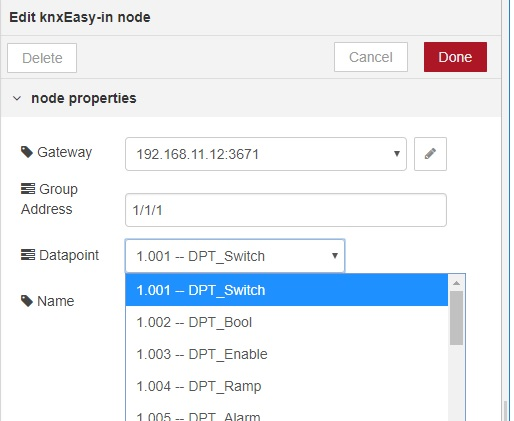
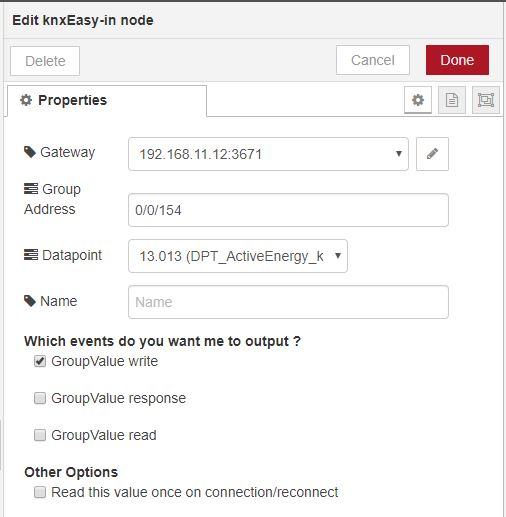
Implement issue #9 (filter events in knxEasy-in node)
Added checkboxes for subscribtion to Read/Response/Write events.

diff --git a/knxEasy-in.html b/knxEasy-in.html
@@ -8,6 +8,8 @@
             dpt: { value: "" },
             initialread: { value: false },
             notifyreadrequest: { value: false },
+            notifyresponse: { value: false },
+            notifywrite: { value: true },
             name: { value: "" }
         },
         inputs: 1,
@@ -26,6 +28,12 @@
                 });
                 $("#node-input-dpt").val(this.dpt)
             })
+
+            // Add write as default for existing nodes
+            if (typeof this.notifywrite === 'undefined') {
+                this.notifywrite = true
+                $("#node-input-notifywrite").prop("checked", true)
+            }
         }
     })
 </script>
@@ -47,28 +55,49 @@
         <label for="node-input-name"><i class="fa fa-tag"></i> Name </label>
         <input type="text" id="node-input-name" placeholder="Name">
     </div>
-    <div class="form-row">
-        <label style="width:auto" for="node-input-initialread"> Read this value on startup </label>
-        <input type="checkbox" id="node-input-initialread" style="display:inline-block; width:auto; vertical-align:top;">
-    </div>
-    <div class="form-row">
-        <label style="width:auto" for="node-input-notifyreadrequest"> Notify read requests </label>
-        <input type="checkbox" id="node-input-notifyreadrequest" style="display:inline-block; width:auto; vertical-align:top;">
-    </div>
+    
+    <dt>Which events do you want me to output ? </dt>
+        <dd>
+            <div class="form-row">
+            <input type="checkbox" id="node-input-notifywrite" style="display:inline-block; width:auto; vertical-align:top;">
+            <label style="width:auto" for="node-input-notifywrite"> GroupValue write </label>
+            </div>
+        </dd>
+        <dd>
+            <div class="form-row">
+            <input type="checkbox" id="node-input-notifyresponse" style="display:inline-block; width:auto; vertical-align:top;">
+            <label style="width:auto" for="node-input-notifyresponse"> GroupValue response </label>
+            </div>
+        </dd>
+        <dd>
+            <div class="form-row">
+            <input type="checkbox" id="node-input-notifyreadrequest" style="display:inline-block; width:auto; vertical-align:top;">
+            <label style="width:auto" for="node-input-notifyreadrequest"> GroupValue read </label>
+            </div>
+        </dd>
+    
+        <dt> Other Options </dt>
+        <dd>
+            <div class="form-row">
+                <input type="checkbox" id="node-input-initialread" style="display:inline-block; width:auto; vertical-align:top;">
+                <label style="width:auto" for="node-input-initialread"> Read this value once on connection/reconnect </label>
+            </div>
+        </dd>
 </script>
 
 <script type="text/x-red" data-help-name="knxEasy-in">
-    <p>	A notification message will be created anytime one of the following events occured for the selected group address:
+    <p>	Depending on your settings, a notification message will be created when the following events occured for the selected group address:
         <ul>
             <li> a write request is received </li>
+            <li> a read request is received </li>
             <li> a response to a read request is received </li>
         </ul>
+        Default is to only notify write requests
     </p>
-    <p> Creation of a manual read request is also possible by injecting messages to this node. <p>
-    <p> To handle read requests from external devices the option <strong>Notify read requests</strong> can be enabled.
-        Be aware that messages with a payload value <code>null</code> will be notified in this case.
-        A `switch` node or a custom function can be used to filter these messages if required.
-        Filter criteria: <code>msg.payload is null</code> or <code>msg.knx.event == "GroupValue_Read"</code>.
+    <p> Creation of a manual read request is also possible by injecting any message to this node. <p>
+    <p> msg.payload will contain your desired value </p>
+    <p> If you have enabled notification of read requests,
+        be aware that the output msg will have a payload of <code>null</code> for these events.
     </p>
 
     <h3>Properties</h3>
@@ -84,15 +113,22 @@
             <dt>Datapoint</dt>
             <dd> KNX datapoint type (DPT). </dd>
 
-            <dt>Read on startup</dt>
-            <dd> When checked, a readRequest will be sent when connection is established/reestablished </dd>
+            <h4>What to output ? </h4>
+                <dt>GroupValue write</dt>
+                <dd>When checked, received writeRequests will be notified</dd>
 
-            <dt>Notify read requests</dt>
-            <dd>
-                When checked, received readRequests will be notified with an additional message.
-                <strong>Attention:</strong> Messages for received readRequests have a <code>msg.payload</code> and
-                <code>msg.knx.rawValue</code> with value <code>null</code>.
-            </dd>
+                <dt>GroupValue response</dt>
+                <dd>When checked, received responses will be notified</dd>
+
+                <dt>GroupValue read</dt>
+                <dd> When checked, received readRequests will be notified, this can be used to create your own response with a knxEasy-out node.
+                    <strong>Attention:</strong> Messages for received readRequests have a <code>msg.payload</code> and
+                    <code>msg.knx.rawValue</code> with value <code>null</code>.
+                </dd>
+            
+            <h4>Other options</h4>
+            <dt>Read on startup</dt>
+            <dd> When checked, a readRequest will be sent on the knx bus when connection is established/reestablished </dd>
         </dl>
 
     <h3>Output</h3>
@@ -134,7 +170,7 @@ msg = {
     }
 } </pre>
             </li>
-            <li>Output of read requests (only available if option `Notify read requests` is enabled)
+            <li>Output of read requests
 <pre> msg = {
     "topic": "1/1/1",
     "payload": null,

diff --git a/knxEasy-config.js b/knxEasy-config.js
@@ -137,21 +137,35 @@ module.exports = (RED) => {
                 }
             })
             node.knxConnection.on("event", function (evt, src, dest, rawValue) {
-                if (evt == "GroupValue_Write" || evt == "GroupValue_Response" || evt == "GroupValue_Read") {
-                    node.inputUsers
-                        .filter(input => input.topic == dest)
-                        .forEach(input => {
-                            if (evt == "GroupValue_Read") {
-                                // Notify only in case option 'Notify read requests' is enabled
-                                if (input.notifyreadrequest == false) return
-                                // In case of GroupValue_Read event no payload / value is available
-                                let msg = buildInputMessage(src, dest, evt, null, input.dpt)
-                                input.send(msg)
-                            } else {
+                switch (evt) {
+                    case "GroupValue_Write": {
+                        node.inputUsers
+                            .filter(input => input.topic == dest && input.notifywrite)
+                            .forEach(input => {
                                 let msg = buildInputMessage(src, dest, evt, rawValue, input.dpt)
                                 input.send(msg)
-                            }
-                        })
+                            })
+                        break;
+                    }
+                    case "GroupValue_Response": {
+                        node.inputUsers
+                            .filter(input => input.topic == dest && input.notifyresponse)
+                            .forEach(input => {
+                                let msg = buildInputMessage(src, dest, evt, rawValue, input.dpt)
+                                input.send(msg)
+                            })
+                        break;
+                    }
+                    case "GroupValue_Read": {
+                        node.inputUsers
+                            .filter(input => input.topic == dest && input.notifyreadrequest)
+                            .forEach(input => {
+                                let msg = buildInputMessage(src, dest, evt, null, input.dpt)
+                                input.send(msg)
+                            })
+                        break;
+                    }
+                    default: return
                 }
             })
         }

diff --git a/knxEasy-in.js b/knxEasy-in.js
@@ -5,8 +5,10 @@ module.exports = function (RED) {
         node.server = RED.nodes.getNode(config.server)
         node.topic = config.topic
         node.dpt = config.dpt || "1.001"
-        node.initialread = config.initialread || false
         node.notifyreadrequest = config.notifyreadrequest || false
+        node.notifyresponse = config.notifyresponse || false
+        node.notifywrite = config.notifywrite
+        node.initialread = config.initialread || false
 
         if (node.server) {
             if (node.topic) {
@@ -14,7 +16,7 @@ module.exports = function (RED) {
             }
         }
         node.on("input", function (msg) {
-            if (node.server && node.server.knxConnection) {
+            if (node.server && node.server.knxConnection && node.topic) {
                 node.server.knxConnection.read(node.topic)
             }
         })

diff --git a/README.md b/README.md
@@ -10,10 +10,13 @@ Set Group-address and DPT in node config to subscribe to all messages with
 that destination and  msg.payload will contain the value you want.
 
 Listen to values written to address 1/1/1:
+
 ![Input and output node](readme/input_properties.jpg)
 
+You can also suscribe to GroupValue response and GroupValue read events,
+this way you can create your own response and send it back to the bus with a knxEasy-out node.
 
-If needed, more information is available in the message outputted: 
+If you need more than the value, extended information is available in the message outputted:   
 ```
 msg = 
     { "topic": "1/1/1"
@@ -32,6 +35,7 @@ msg =
         }
     }                        
 ```
+(Read events will have payload and knx.rawValue of null)
 
 ## Output node
 Set up group address and select DPT in node configuration.
